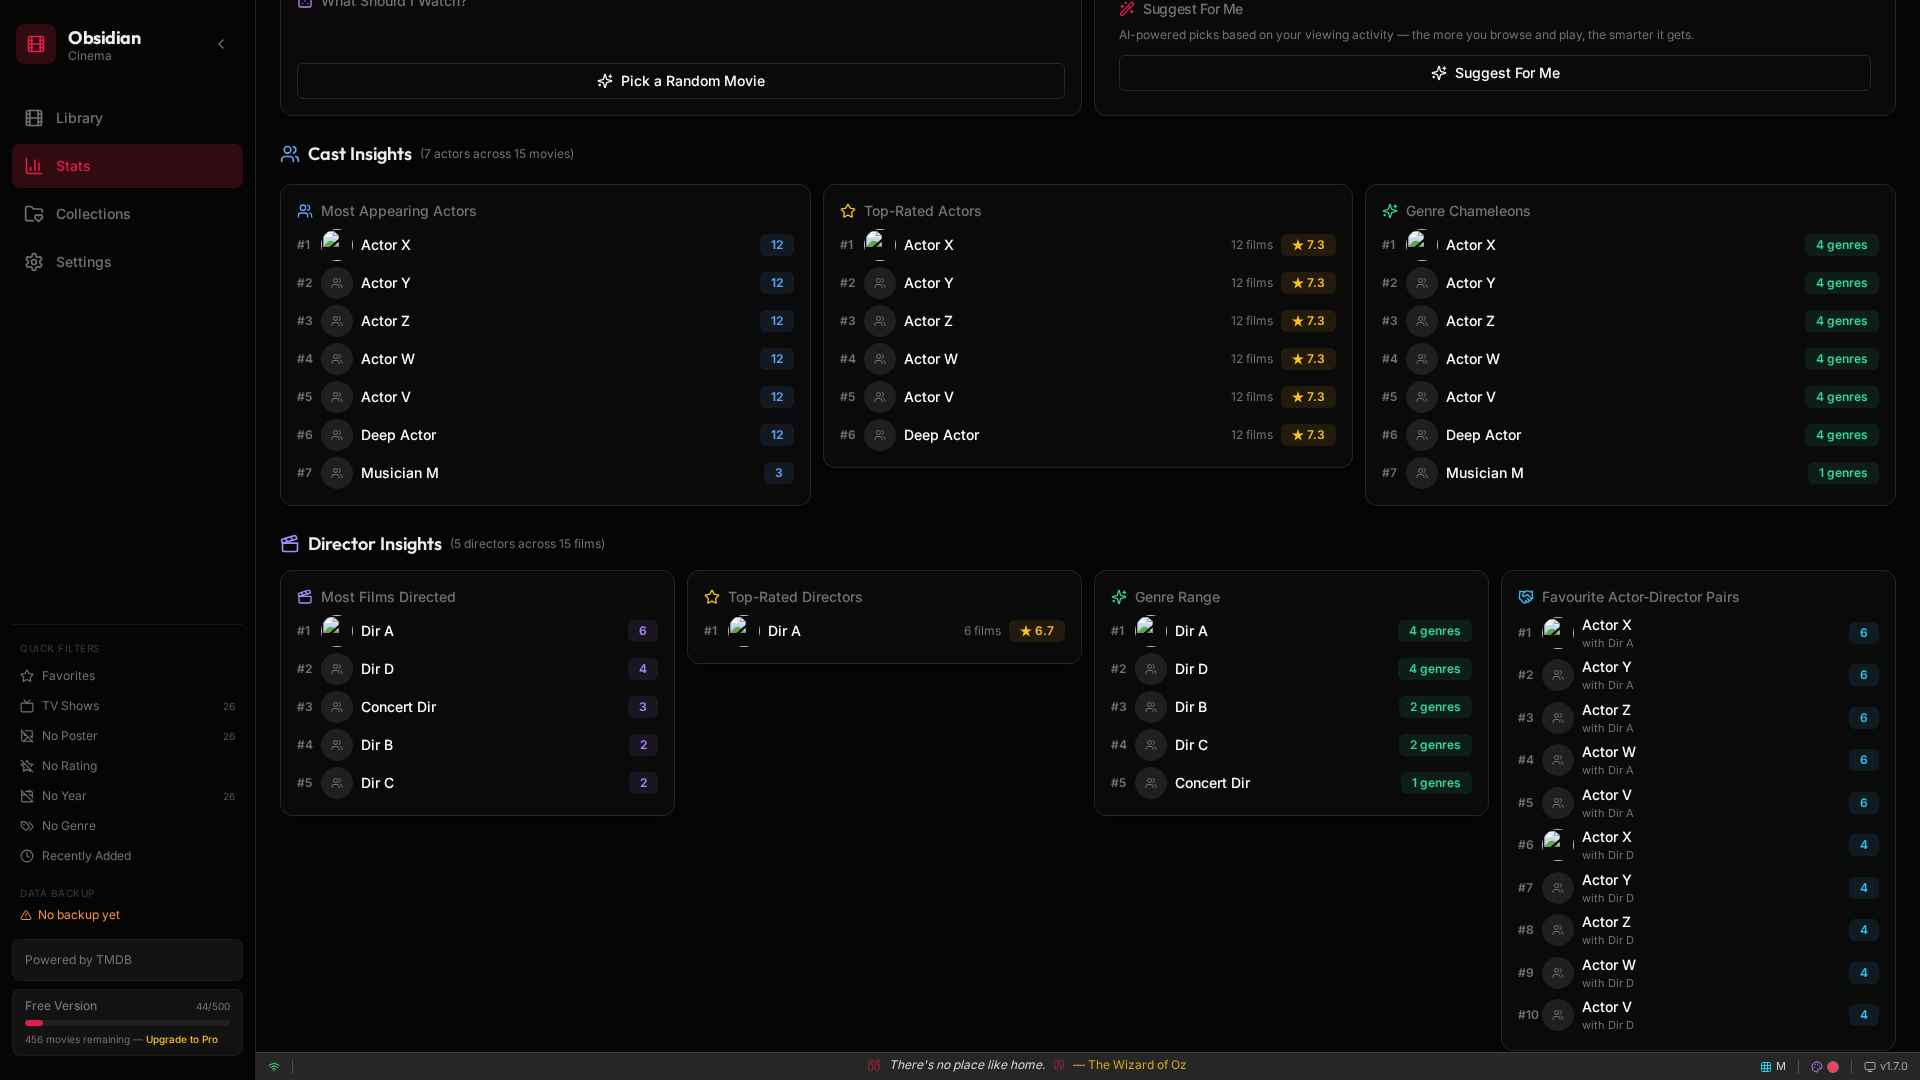
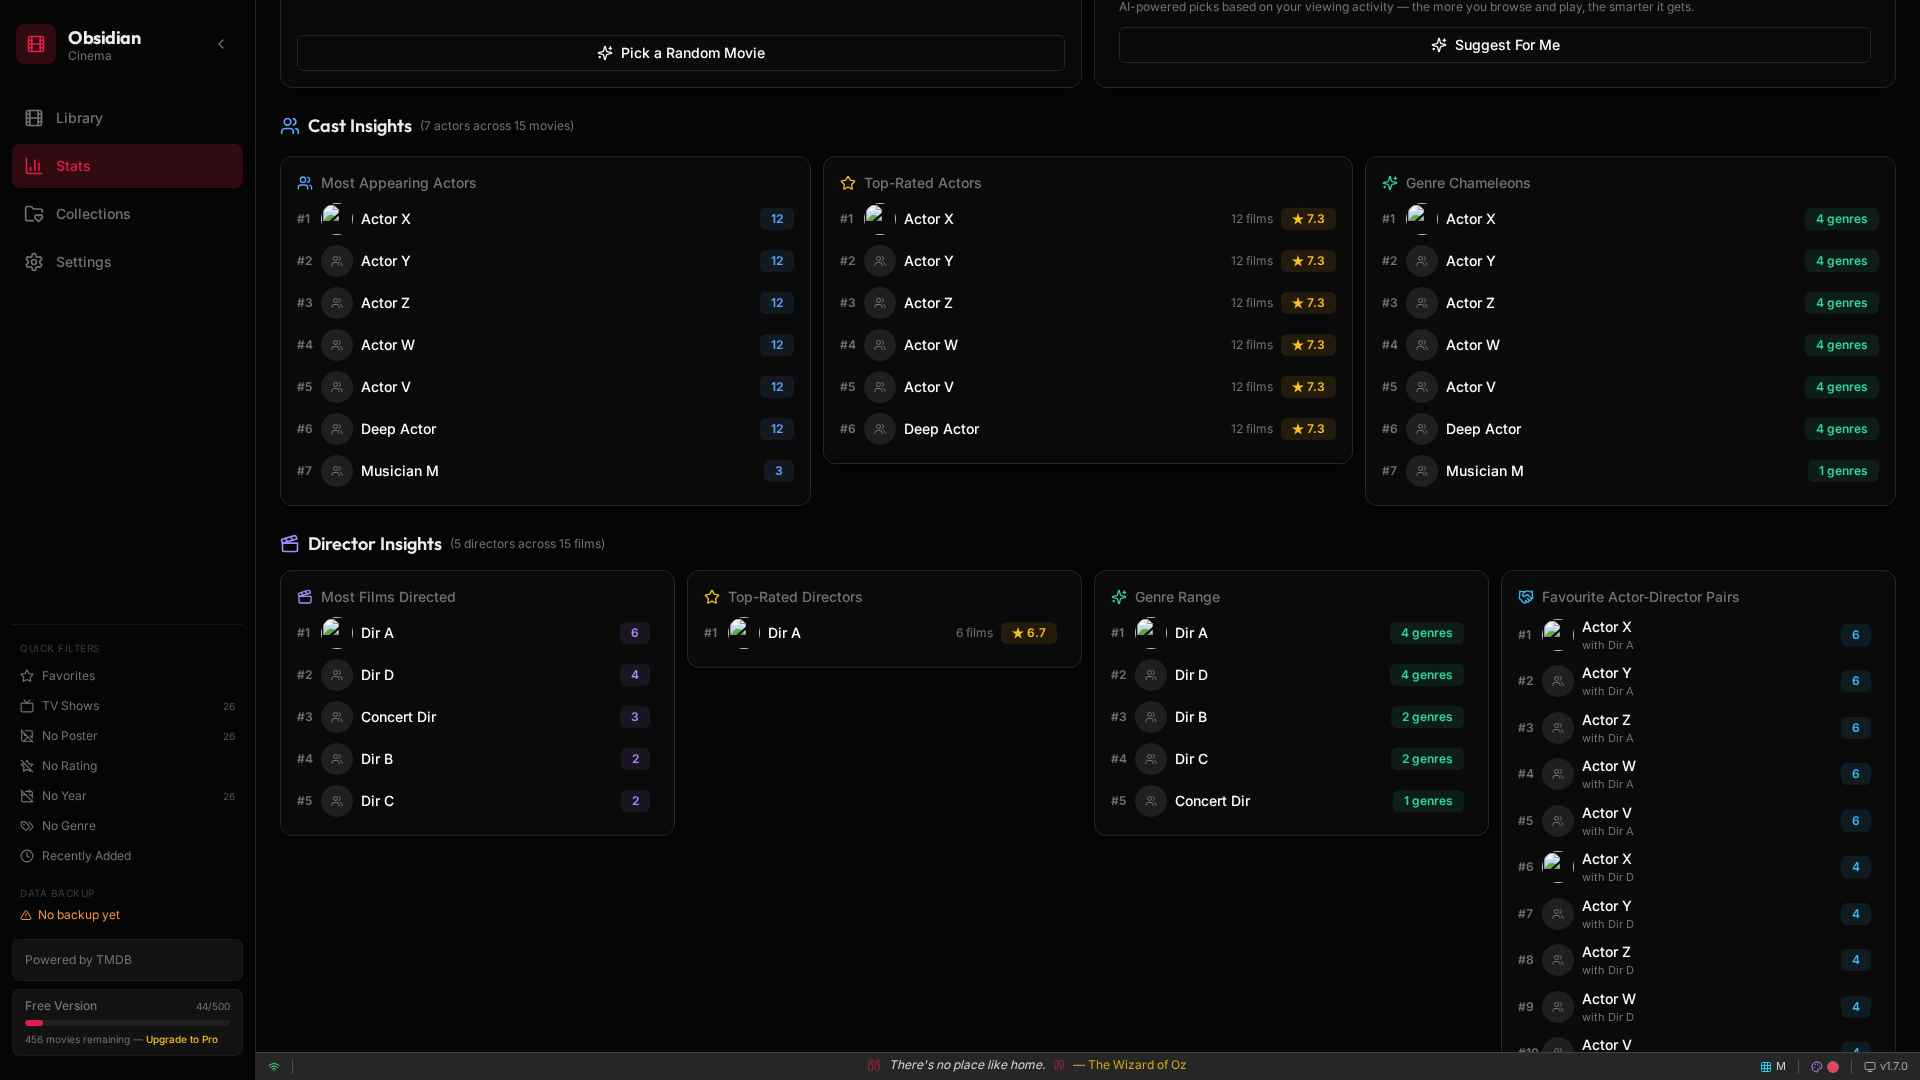
## Actor and Director Filmographies (still v1.7.0) Clicking any person on the Stats page now opens a pop-up of their films in your library. It works in the browser test version of the app, and the testing agent's one issue (a mismatched pair count) is fixed; I haven't tried it in the installed app.
- **Actors:** click a row in Most Appearing, Top-Rated or Genre Chameleons to see "Appears in N films". Each film shows its poster, year, "as <character>" and rating, newest first. The pop-up follows the same rules as the Cast Insights lists, so TV shows, documentaries, concert films and "Himself" cameos don't appear.
- **Directors:** click a row in any Director Insights list to see "Directed N films".
- **Actor-director pairs:** clicking a pair shows "Together N films", and the number always matches the count shown on the pair.
- **Open a film:** clicking a film in the pop-up closes it, goes to the Library and opens that film's details.
- **Keyboard:** Enter or Space also opens a person's pop-up.

As before, your installed app gets this only after you build and publish a desktop release.

Next Action Items:
- **Library Person Filter**: Add a "Show all in Library" button in the pop-up that filters the grid to that person's films
- **Missing Filmography**: Show a person's other well-known films that aren't in your library yet, as a wishlist
- **Resume Next Episode**: Show "Continue with S01E03" on a show's card so you can pick up where you left off
- **Episode Watched Ticks**: Add checkmarks to watched episodes so each season shows how far you've got

Emergent-Commit-Key: 15f2fb9609bc6c04eb1b79e2fbc6491780b0742deeed90387eb07710580a0f97

diff --git a/frontend/src/pages/StatsPage.jsx b/frontend/src/pages/StatsPage.jsx
@@ -390,7 +390,7 @@ function MostAppearingActors({ actors, onPick }) {
         <div className="space-y-1.5">
         {actors.map(function(actor, i) {
           return (
-            <div key={actor.name} role="button" tabIndex={0} onClick={function() { onPick({ name: actor.name, role: 'actor', photo: actor.photo }); }} className="flex items-center gap-2 cursor-pointer rounded-md -mx-1 px-1 py-0.5 hover:bg-secondary/60 transition-colors" data-testid={'top-actor-' + i}>
+            <div key={actor.name} role="button" tabIndex={0} onClick={function() { onPick({ name: actor.name, role: 'actor', photo: actor.photo }); }} onKeyDown={function(e) { if (e.key === 'Enter' || e.key === ' ') { e.preventDefault(); onPick({ name: actor.name, role: 'actor', photo: actor.photo }); } }} className="flex items-center gap-2 cursor-pointer rounded-md -mx-1 px-1 py-0.5 hover:bg-secondary/60 transition-colors" data-testid={'top-actor-' + i}>
               <span className="text-xs font-bold text-muted-foreground w-4">#{i + 1}</span>
               {actor.photo ? (
                 <img src={actor.photo} alt="" className="w-8 h-8 rounded-full object-cover" />
@@ -420,7 +420,7 @@ function TopRatedActors({ actors, onPick }) {
         <div className="space-y-1.5">
         {actors.map(function(actor, i) {
           return (
-            <div key={actor.name} role="button" tabIndex={0} onClick={function() { onPick({ name: actor.name, role: 'actor', photo: actor.photo }); }} className="flex items-center gap-2 cursor-pointer rounded-md -mx-1 px-1 py-0.5 hover:bg-secondary/60 transition-colors" data-testid={'rated-actor-' + i}>
+            <div key={actor.name} role="button" tabIndex={0} onClick={function() { onPick({ name: actor.name, role: 'actor', photo: actor.photo }); }} onKeyDown={function(e) { if (e.key === 'Enter' || e.key === ' ') { e.preventDefault(); onPick({ name: actor.name, role: 'actor', photo: actor.photo }); } }} className="flex items-center gap-2 cursor-pointer rounded-md -mx-1 px-1 py-0.5 hover:bg-secondary/60 transition-colors" data-testid={'rated-actor-' + i}>
               <span className="text-xs font-bold text-muted-foreground w-4">#{i + 1}</span>
               {actor.photo ? (
                 <img src={actor.photo} alt="" className="w-8 h-8 rounded-full object-cover" />
@@ -451,7 +451,7 @@ function GenreChameleons({ actors, onPick }) {
         <div className="space-y-1.5">
         {actors.map(function(actor, i) {
           return (
-            <div key={actor.name} role="button" tabIndex={0} onClick={function() { onPick({ name: actor.name, role: 'actor', photo: actor.photo }); }} className="flex items-center gap-2 cursor-pointer rounded-md -mx-1 px-1 py-0.5 hover:bg-secondary/60 transition-colors" data-testid={'chameleon-actor-' + i}>
+            <div key={actor.name} role="button" tabIndex={0} onClick={function() { onPick({ name: actor.name, role: 'actor', photo: actor.photo }); }} onKeyDown={function(e) { if (e.key === 'Enter' || e.key === ' ') { e.preventDefault(); onPick({ name: actor.name, role: 'actor', photo: actor.photo }); } }} className="flex items-center gap-2 cursor-pointer rounded-md -mx-1 px-1 py-0.5 hover:bg-secondary/60 transition-colors" data-testid={'chameleon-actor-' + i}>
               <span className="text-xs font-bold text-muted-foreground w-4">#{i + 1}</span>
               {actor.photo ? (
                 <img src={actor.photo} alt="" className="w-8 h-8 rounded-full object-cover" />
@@ -627,9 +627,11 @@ function computeStats(movies, directories, trashedMovies) {
   for (i = 0; i < movies.length; i++) {
     if (!isFilmCard(movies[i])) continue;
     var cast = movies[i].cast;
+    var seenInFilm = {};
     if (cast && Array.isArray(cast)) {
       for (var c = 0; c < cast.length; c++) {
-        if (!isActingCredit(cast[c])) continue;
+        if (!isActingCredit(cast[c]) || seenInFilm[cast[c].name]) continue;
+        seenInFilm[cast[c].name] = true;
         var actorName = cast[c].name;
         if (!actorName) continue;
         actorAppearances[actorName] = (actorAppearances[actorName] || 0) + 1;

diff --git a/frontend/src/lib/peopleStats.js b/frontend/src/lib/peopleStats.js
@@ -34,14 +34,14 @@ export function filmography(movies, name, role) {
   return movies.filter(m => isFilmCard(m) && (role === 'director'
     ? filmDirectors(m).some(d => d.name === name)
     : (m.cast || []).some(c => c.name === name && isActingCredit(c))))
-    .map(m => ({ movie: m, character: role === 'actor' ? ((m.cast || []).find(c => c.name === name) || {}).character : null }))
+    .map(m => ({ movie: m, character: role === 'actor' ? ((m.cast || []).find(c => c.name === name && isActingCredit(c)) || {}).character : null }))
     .sort((a, b) => (b.movie.year || 0) - (a.movie.year || 0));
 }
 
-// Films shared by an actor and a director
+// Films shared by an actor (top-5 billed, as counted in the pair badge) and a director
 export function pairFilmography(movies, actor, director) {
-  const a = filmography(movies, actor, 'actor');
-  return a.filter(f => filmDirectors(f.movie).some(d => d.name === director));
+  return filmography(movies, actor, 'actor').filter(f => filmDirectors(f.movie).some(d => d.name === director)
+    && (f.movie.cast || []).filter(isActingCredit).slice(0, 5).some(c => c.name === actor));
 }
 
 // Director insights: most films, top rated (min 5 rated films), genre range, favourite actor-director pairs

diff --git a/tests/test_iter41_filmography.py b/tests/test_iter41_filmography.py
@@ -1,0 +1,160 @@
+# Iteration 41: Stats filmography dialog (actors, directors, actor-director pairs) + Library ?open=<id>
+# Run via browser_automation: g={'page':page}; exec(open('/app/tests/test_iter41_filmography.py').read(), g); await g['run_filmography']()
+g40 = {'page': page}
+exec(open('/app/tests/test_iter40_aka_directors.py').read(), g40)
+card, A, open_ctx, chk, lst, URL = g40['card'], g40['A'], g40['open_ctx'], g40['chk'], g40['lst'], g40['URL']
+
+
+def film_lib():
+    lib = []
+    for i in range(1, 7):
+        cast = [A("Actor X", f"Hero{i}", photo="https://image.tmdb.org/t/p/w185/x.jpg"), A("Cameo Guy", "Himself"), A("Actor Y")]
+        if i <= 2:
+            cast.append(A("Actor P", f"P{i}"))
+        lib.append(card(600 + i, title=f"TEST_F{i}", year=2000 + i, rating=7.0 + i * 0.1, genres=["Drama" if i % 2 else "Action"],
+                        cast=cast, directors=[{"name": "Dir A", "profile_path": None}]))
+    # Actor X only as Himself -> excluded for Actor X; counts for Dir A
+    lib.append(card(607, title="TEST_F7", year=2010, rating=6, genres=["Comedy"], cast=[A("Actor X", "Himself"), A("Actor Y")],
+                    directors=[{"name": "Dir A", "profile_path": None}]))
+    # concert (Music, mostly self credits) -> excluded entirely
+    lib.append(card(608, title="TEST_Concert", year=2011, rating=8, genres=["Music"],
+                    cast=[A("Actor X", "Lead"), A("Band1", "Himself"), A("Band2", "Herself")], directors=[{"name": "Dir A", "profile_path": None}]))
+    # Music film with real acting -> counts; director string split
+    lib.append(card(609, title="TEST_Musical", year=2012, rating=7.5, genres=["Music", "Drama"],
+                    cast=[A("Actor X", "Singer"), A("Actor Y"), A("Actor Q")], director="Dir B, Dir C"))
+    # Actor P is 6th acting credit (outside the top-5 used for pairs)
+    lib.append(card(610, title="TEST_F10", year=1999, rating=6.5, genres=["Thriller"],
+                    cast=[A("Actor X", "Old"), A("Actor Y"), A("E1"), A("E2"), A("E3"), A("Actor P", "P10")],
+                    directors=[{"name": "Dir A", "profile_path": None}]))
+    lib.append({"id": "tvz", "title": "TEST_TVZ", "media_type": "tv", "tmdb_id": 990, "genres": ["Drama"], "rating": 9,
+                "file_name": "tvz S01E01.mkv", "file_path": "D:\\TV\\Z\\tvz S01E01.mkv", "cast": [A("Actor X")], "director": "Dir A"})
+    lib.append(card(611, title="TEST_Doc", year=2013, genres=["Documentary"], cast=[A("Actor X", "Narrator")], directors=[{"name": "Dir A", "profile_path": None}]))
+    return lib
+
+
+async def dlg(p):
+    return {
+        "name": await p.locator('[data-testid="filmography-name"]').inner_text(),
+        "count": await p.locator('[data-testid="filmography-count"]').inner_text(),
+        "items": await lst(p, "filmography-item-"),
+    }
+
+
+async def pick(p, tid):
+    await p.locator(f'[data-testid="{tid}"]').scroll_into_view_if_needed()
+    await p.locator(f'[data-testid="{tid}"]').click()
+    await p.wait_for_timeout(500)
+    ok = await p.locator('[data-testid="filmography-dialog"]').count() == 1
+    return (await dlg(p)) if ok else None
+
+
+async def close(p, how="esc"):
+    if how == "esc":
+        await p.keyboard.press("Escape")
+    else:
+        await p.locator('[data-testid="filmography-dialog"] button:has(svg.lucide-x)').last.click()
+    await p.wait_for_timeout(400)
+    return await p.locator('[data-testid="filmography-dialog"]').count() == 0
+
+
+async def find_row(p, prefix, text):
+    rows = await lst(p, prefix)
+    for i, r in enumerate(rows):
+        if text in r:
+            return f"{prefix}{i}", r
+    return None, rows
+
+
+async def run_filmography():
+    ctx, p, mock, errs = await open_ctx(film_lib(), key=False, auto="off", url=URL + "stats")
+    try:
+        await p.wait_for_timeout(1500)
+        top = await lst(p, "top-actor-"); cham = await lst(p, "chameleon-actor-"); rated = await lst(p, "rated-actor-")
+        print("top:", top); print("cham:", cham); print("rated:", rated)
+        tid, row = await find_row(p, "top-actor-", "Actor X")
+        d = await pick(p, tid)
+        print("Actor X dialog:", d)
+        chk("actor dialog opens", d is not None)
+        if d:
+            chk("name", d["name"] == "Actor X", d["name"])
+            chk("count 8 films", d["count"] == "Appears in 8 films in your library", d["count"])
+            chk("count matches top badge", row.endswith("| 8") or "8" in row.split("|")[-1], row)
+            titles = [x.split(" | ")[0] for x in d["items"]]
+            chk("newest first & excludes F7/Concert/TV/Doc", titles == ["TEST_Musical", "TEST_F6", "TEST_F5", "TEST_F4", "TEST_F3", "TEST_F2", "TEST_F1", "TEST_F10"], titles)
+            chk("item format year · as char + rating", d["items"] and d["items"][1] == "TEST_F6 | 2006 · as Hero6 | ★ 7.6", d["items"][:2])
+            chk("poster img in item", await p.locator('[data-testid="filmography-item-0"] img').count() == 1)
+            chk("header photo", await p.locator('[data-testid="filmography-dialog"] img.rounded-full').count() == 1)
+            await p.screenshot(path=".screenshots/iter41_actor_dialog.jpg", quality=40, full_page=False)
+            chk("Escape closes", await close(p, "esc"))
+        tid, row = await find_row(p, "chameleon-actor-", "Actor Y")
+        d = await pick(p, tid) if tid else None
+        print("cham Actor Y:", d)
+        chk("chameleon Actor Y: 9 films (incl F7)", d and d["count"] == "Appears in 9 films in your library", d and d["count"])
+        if d: chk("close button closes", await close(p, "x"))
+        if rated:
+            d = await pick(p, "rated-actor-0"); print("rated-0:", d); await close(p)
+        # directors
+        most = await lst(p, "director-most-"); rng = await lst(p, "director-range-"); drated = await lst(p, "director-rated-"); pairs = await lst(p, "director-pairs-")
+        print("most:", most); print("range:", rng); print("drated:", drated); print("pairs:", pairs)
+        tid, row = await find_row(p, "director-most-", "Dir A")
+        d = await pick(p, tid)
+        print("Dir A:", d)
+        chk("Dir A: Directed 8 films", d and d["count"] == "Directed 8 films in your library", d and d["count"])
+        if d:
+            titles = [x.split(" | ")[0] for x in d["items"]]
+            chk("Dir A list (no concert/tv/doc), newest first", titles == ["TEST_F7", "TEST_F6", "TEST_F5", "TEST_F4", "TEST_F3", "TEST_F2", "TEST_F1", "TEST_F10"], titles)
+            chk("director items have no 'as'", not any(" as " in x for x in d["items"]), d["items"][:2])
+            await close(p)
+        tid, row = await find_row(p, "director-most-", "Dir B")
+        d = await pick(p, tid)
+        chk("Dir B (split string) 1 film TEST_Musical", d and d["count"] == "Directed 1 film in your library" and d["items"][0].startswith("TEST_Musical"), d)
+        if d: await close(p)
+        for pf in ("director-range-", "director-rated-"):
+            tid, row = await find_row(p, pf, "Dir A")
+            if tid:
+                d = await pick(p, tid)
+                chk(f"{pf} Dir A dialog", d and d["count"] == "Directed 8 films in your library", d and d["count"])
+                await close(p)
+        # pairs
+        for idx, r in enumerate(pairs):
+            d = await pick(p, f"director-pairs-{idx}")
+            badge = r.split(" | ")[-1]
+            n = d["count"].split()[1] if d else None
+            chk(f"pair row {idx} '{r}' count matches dialog", d and n == badge and d["count"].startswith("Together"), d and (d["name"], d["count"]))
+            await close(p)
+        # navigate
+        tid, row = await find_row(p, "top-actor-", "Actor X")
+        await pick(p, tid)
+        await p.locator('[data-testid="filmography-item-1"]').click()
+        await p.wait_for_timeout(1800)
+        chk("dialog closed after item click", await p.locator('[data-testid="filmography-dialog"]').count() == 0)
+        t = await p.locator('[data-testid="movie-title-editable"]').inner_text() if await p.locator('[data-testid="movie-title-editable"]').count() else None
+        chk("library detail opened for TEST_F6", t and "TEST_F6" in t, t)
+        chk("?open removed from URL", "open=" not in p.url, p.url)
+        await p.screenshot(path=".screenshots/iter41_nav_detail.jpg", quality=40, full_page=False)
+        await p.keyboard.press("Escape")
+        await p.wait_for_timeout(500)
+        # reload library without open
+        await p.reload(); await p.wait_for_timeout(2500)
+        chk("library loads normally, no detail open", await p.locator('[data-testid="movie-title-editable"]').count() == 0)
+        chk("library cards visible", await p.locator('h3.font-medium.truncate').count() > 0)
+        chk("no page errors", not errs, errs)
+    finally:
+        await ctx.close()
+
+
+async def run_bad_open():
+    ctx, p, mock, errs = await open_ctx(film_lib(), key=False, auto="off", url=URL + "?open=doesnotexist")
+    try:
+        await p.wait_for_timeout(1000)
+        chk("bad id: no detail, open removed", await p.locator('[data-testid="movie-title-editable"]').count() == 0 and "open=" not in p.url, p.url)
+        chk("no page errors", not errs, errs)
+    finally:
+        await ctx.close()
+    ctx, p, mock, errs = await open_ctx(film_lib(), key=False, auto="off", url=URL + "?open=m603")
+    try:
+        await p.wait_for_timeout(1000)
+        t = await p.locator('[data-testid="movie-title-editable"]').inner_text() if await p.locator('[data-testid="movie-title-editable"]').count() else None
+        chk("direct ?open=m603 opens TEST_F3", t and "TEST_F3" in t, (t, p.url))
+    finally:
+        await ctx.close()

diff --git a/memory/PRD.md b/memory/PRD.md
@@ -112,3 +112,4 @@ Build "Obsidian Cinema"—an installable Windows desktop app (Electron) that sca
 - (v1.7.0, same build) Import type picker: Browse Local Drives requires choosing Movies/TV Shows/Documentaries/Animations before Scan (ImportTypePicker.jsx); Add Files asks the type first (ImportTypeDialog) and saves it for the files' folder. Files directly in a typed TV/Docs/Anim folder become one show named for the folder (e.g. Modern Marvels, 600 files). Docs/Anim loose files group only when they look like a series (numbered, named after the folder, or sharing a title start); separate films are matched as movies. Category badges count each card once. Tested iteration_36-37 + re-runs (all pass).
 - (v1.7.0, same build) Manage Directories: 'Folders from Add Files' section lists folders typed via Add Files (not inside a scanned directory) with type dropdown, title count and Remove (removes only titles directly in that folder; files on disk untouched). Add Files no longer changes the type of scanned directories or folders inside them. Tested iteration_38 + re-run (all pass).
 - (v1.7.0, same build) AKA titles: fetchMovieDetails adds alternative_titles -> movie.aka (English US/GB/CA/AU/IE/NZ aliases first, original title kept, max 6); shown as 'aka …' on cards (medium/large) and 'Also known as' in the detail window; searchable. Background auto-fill re-fetches older films without aka. Cast Insights now film-only (no TV/series, documentaries, concert films with mostly Himself credits; no Himself/Self credits or non-Acting department people). New Director Insights (lib/peopleStats.js, components/DirectorInsights.jsx): most films, top-rated (min 5), genre range, actor-director pairs. Tested iteration_39 (41/41) + re-run.
+- (v1.7.0, same build) Filmographies: clicking an actor (Cast Insights), director or actor-director pair (Director Insights) opens FilmographyDialog on the Stats page listing their films (film-only rules, newest first, 'as character', rating); clicking a film opens it in the Library via ?open=<id>. Pair count = top-5 billed rule. Tested iteration_40 + re-run (all pass).
